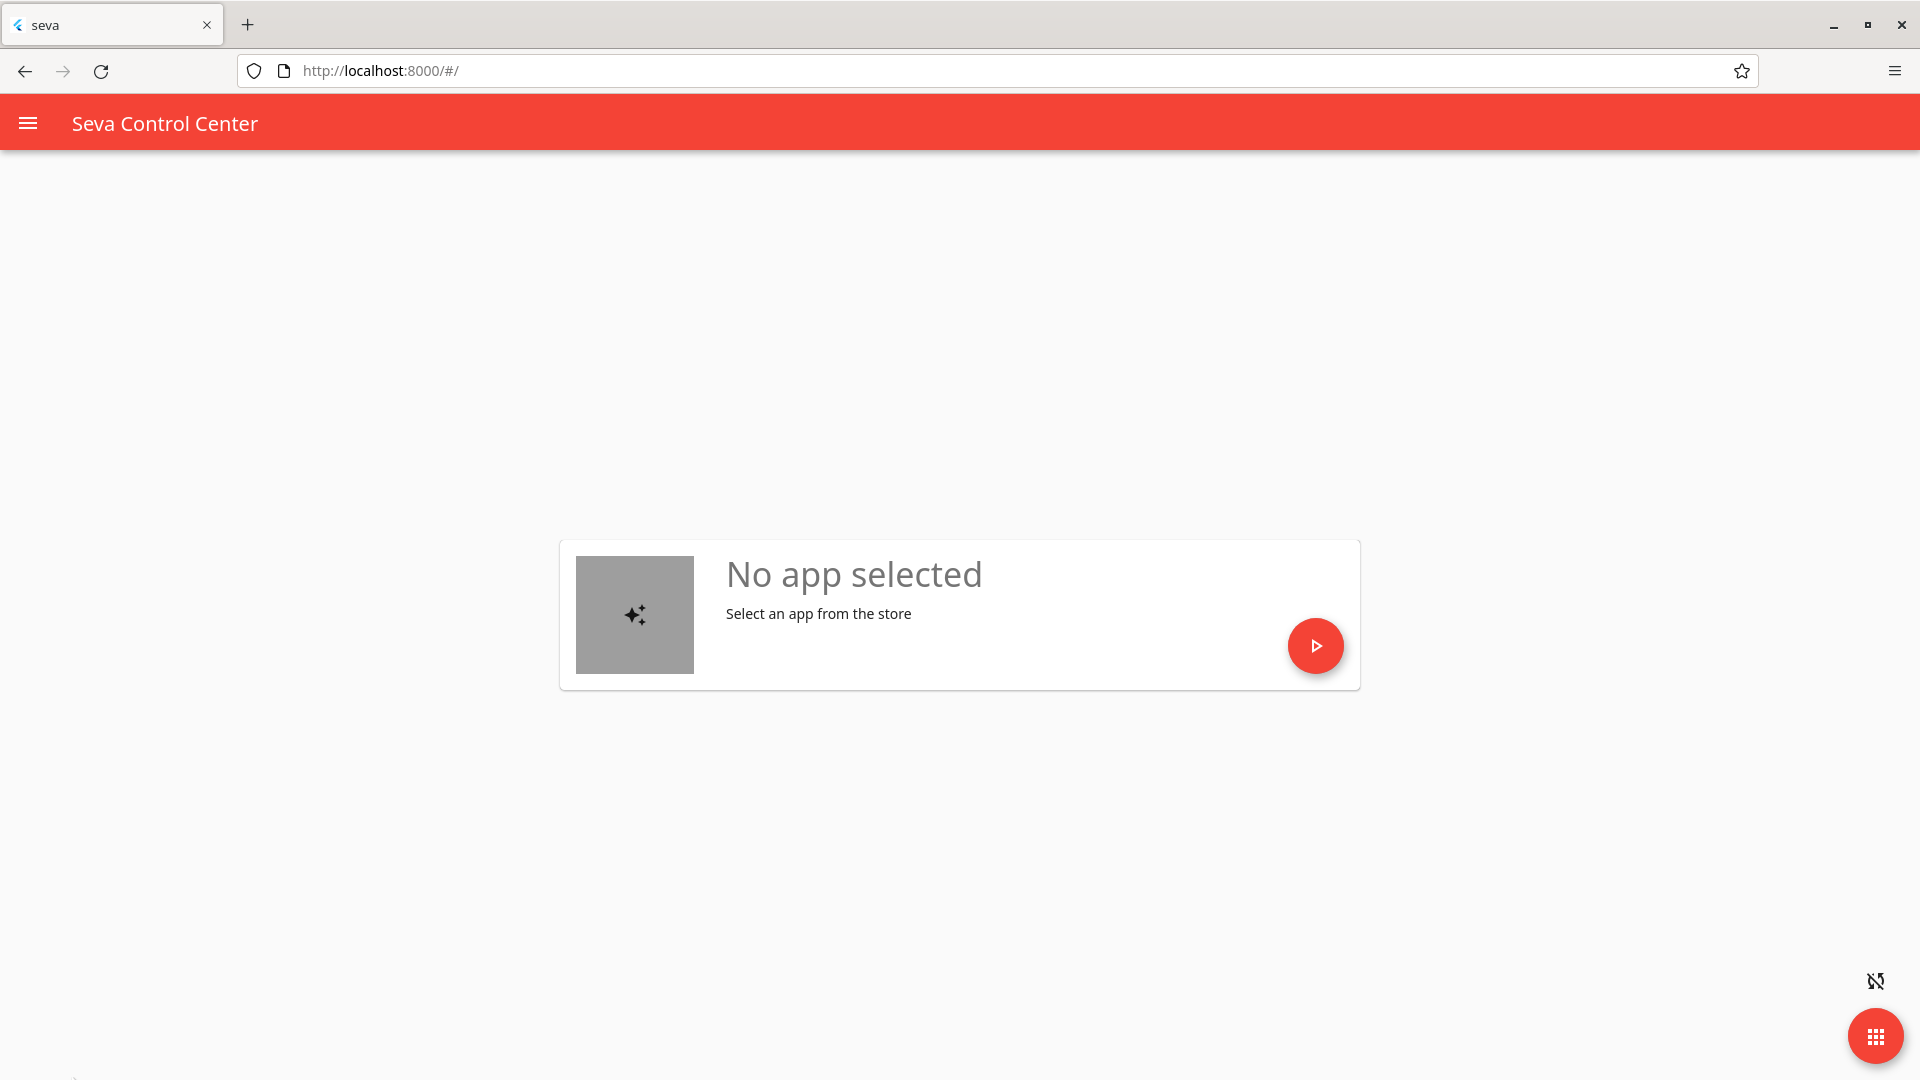
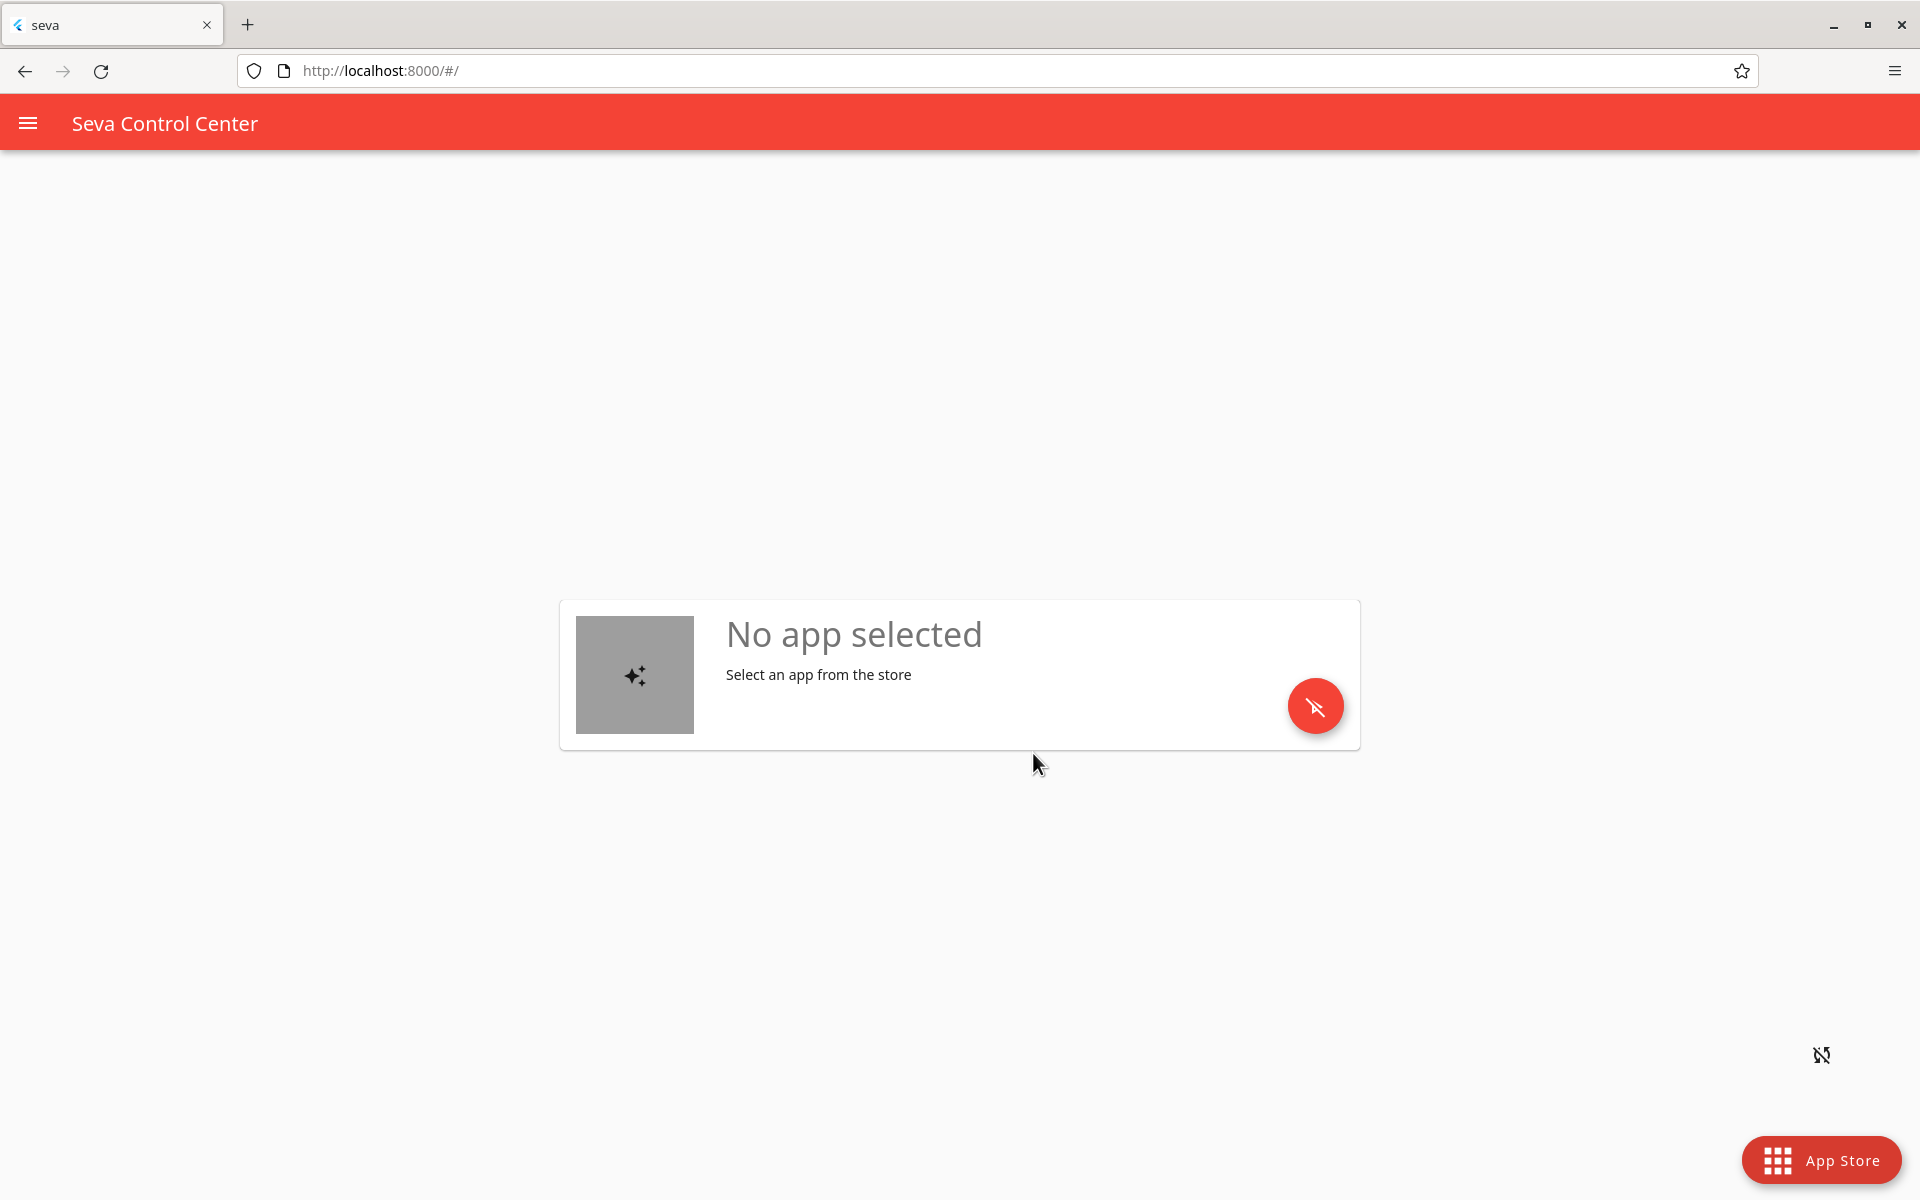
Update Seva Store & Firefox Documentaion
- Update Seva Store User Guide based on the
improvements in 9.1 release.

- Add Seva Store - User Guide in AM62P.

- Add new images & delete older images which are
no longer needed.

diff --git a/source/system/Demo_User_Guides/Seva_Store.rst b/source/system/Demo_User_Guides/Seva_Store.rst
@@ -46,7 +46,7 @@ The TI Apps Launcher demo launches on Linux startup. To Launch Seva Store via TI
 
 .. ifconfig:: CONFIG_sdk in ('PLSDK')
 
-   .. Image:: /images/ti-apps-launcher.png
+   .. Image:: /images/ti-apps-launcher-home.png
       :width: 950
       :height: 900
 
@@ -102,9 +102,17 @@ The TI Apps Launcher demo launches on Linux startup. To Launch Seva Store via TI
 
 8. The Seva Design Gallery page launches in the second tab of the browser as shown below.
 
-.. Image:: /images/seva-design-gallery.png
-   :width: 950
-   :height: 900
+.. ifconfig:: CONFIG_part_variant in ('AM62X')
+
+   .. Image:: /images/seva-design-gallery.png
+      :width: 950
+      :height: 900
+
+.. ifconfig:: CONFIG_part_variant in ('AM62PX')
+
+   .. Image:: /images/seva-design-gallery-am62p.png
+      :width: 950
+      :height: 900
 
 9. Currently we have the Thermostat Demo Docker Image hosted on Seva Design Gallery. To launch the Thermostat Demo, click on the `Launch` Button as shown below.
 
@@ -114,9 +122,9 @@ The TI Apps Launcher demo launches on Linux startup. To Launch Seva Store via TI
 
 |
 
-10. After Clicking Launch Button, switch to the first tab (i.e. Seva Control Centre) by clicking on it.
+10. After Clicking Launch Button, you will see a popup which asks user to switch to the first tab (i.e. Seva Control Centre) to run the Demo.
 
-.. Image:: /images/seva-first-tab.jpg
+.. Image:: /images/seva-design-gallery-popup.png
    :width: 950
    :height: 700
 
@@ -165,21 +173,12 @@ show the `Downloading Icon` as shown in the image below.
 
 |
 
-16. Now click on the Stop Icon as shown below to stop the `Thermostat Demo`.
-
-.. Image:: /images/demo-stop.jpg
-   :width: 950
-   :height: 900
-
-17. To launch another demo, you can follow from **Step 6**.
+16. To launch another demo, you can follow from **Step 6**.
 
 |
 
-18. To close the Seva Store Application and return back to TI Apps Launcher, close the Firefox browser and then click on Stop Button which you see on the centre of the ti-apps-launcher screen.
+17. To close the Seva Store Application and return back to TI Apps Launcher, close the Firefox browser.
 
-.. Image:: /images/seva-store-stop.jpg
-   :width: 950
-   :height: 900
 
 How to Launch Seva Store via CLI
 --------------------------------

diff --git a/source/system/Demo_User_Guides/TI_Apps_Launcher_User_Guide.rst b/source/system/Demo_User_Guides/TI_Apps_Launcher_User_Guide.rst
@@ -247,19 +247,13 @@ __________________________________
 Launching the Seva Store
 ________________________
 
-.. ifconfig:: CONFIG_part_variant in ('AM62X')
+.. ifconfig:: CONFIG_part_variant in ('AM62X', 'AM62PX')
 
    .. note::
 
       Seva Store is not supported on AM62xSIP due to it's memory constraints.
 
 1. |__PART_FAMILY_DEVICE_NAMES__| SDK now supports Seva Store. Seva Store is TI developed Demo Gallery Tool which allows users to Download and Install demos on the go. Developers can host their Demos as Docker Images on any public Docker Registry and link them to Seva Design Gallery. Refer `Seva Store - User Guide <Seva_Store.html>`__ to know more about Seva Store.
-
-.. ifconfig:: CONFIG_sdk in ('PLSDK')
-
-   .. Image:: /images/seva-store-icon.jpg
-      :width: 407
-      :height: 400
 
 .. ifconfig:: CONFIG_sdk in ('j7_foundational')
 
@@ -270,19 +264,13 @@ ________________________
 Launching the Firefox Browser
 _____________________________
 
-.. ifconfig:: CONFIG_part_variant in ('AM62X')
+.. ifconfig:: CONFIG_part_variant in ('AM62X', 'AM62PX')
 
    .. note::
 
       Firefox Browser is not supported on AM62xSIP due to it's memory constraints.
 
 1. |__PART_FAMILY_DEVICE_NAMES__| SDK now supports Firefox ESR Browser. Click on the `Firefox` button on the left panel.
-
-.. ifconfig:: CONFIG_sdk in ('PLSDK')
-
-   .. Image:: /images/firefox-icon.jpg
-      :width: 407
-      :height: 400
 
 2. Click `Launch` button to launch the Firefox Browser. The Browser launches with `TI Arm-based processors page <https://www.ti.com/microcontrollers-mcus-processors/arm-based-processors/overview.html>`__ as the first tab by default.
 
